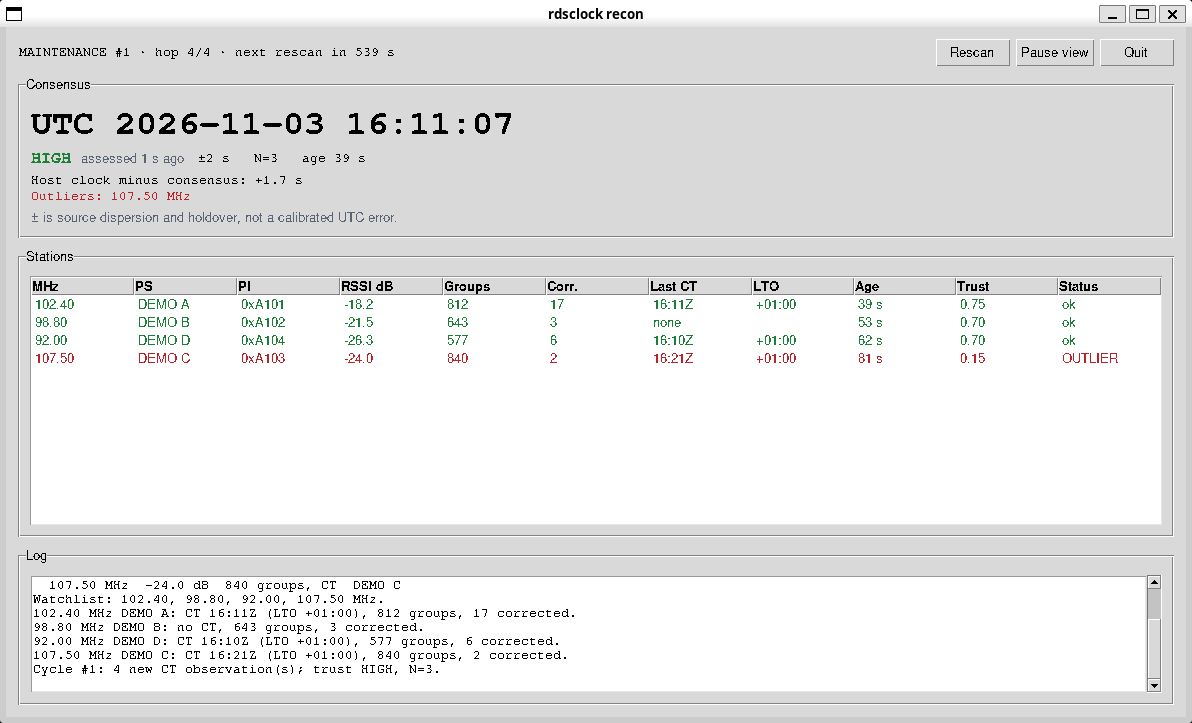
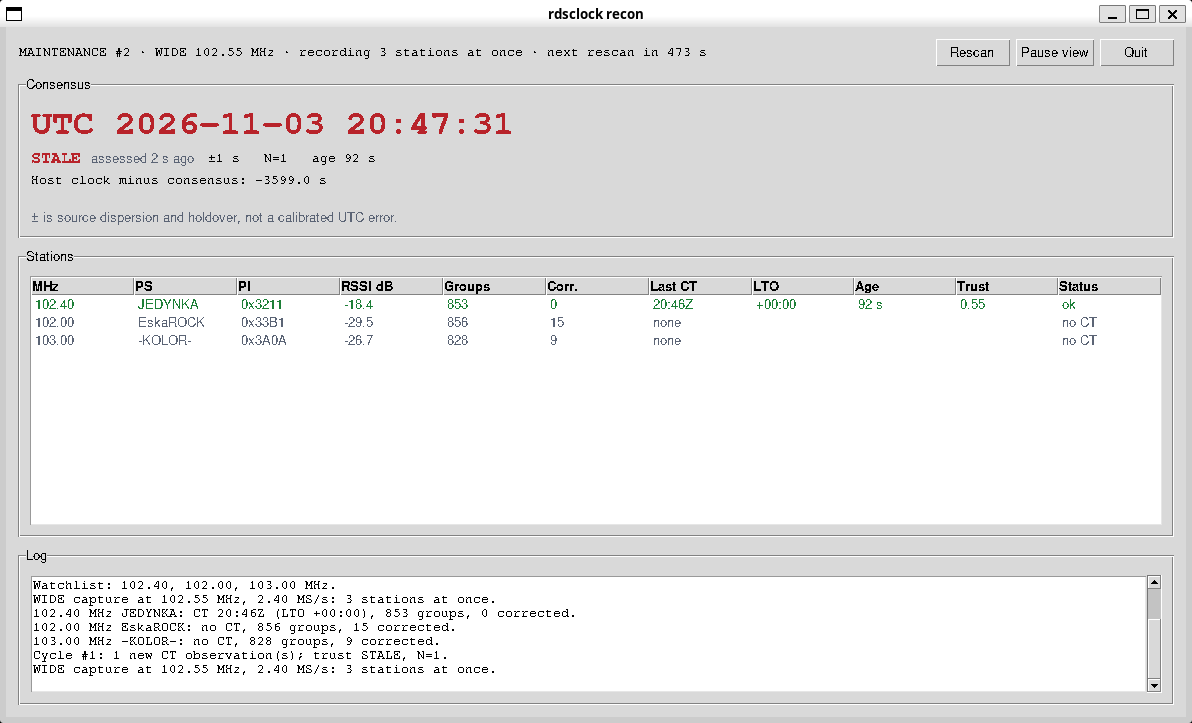
docs: show live WIDE reception in the dashboard screenshots
Replace the made-up DEMO session with screenshots of live reception in
Warsaw on 3 November 2026. recon --wide decoded Eska ROCK, Jedynka and
Radio Kolor from the same 75-second captures at 2.4 MS/s, 828 to 856
groups each. The READMEs give the command and say what the screenshots
show: only Jedynka sends Clock-Time, so the consensus has one source, and
it carries Polish local time in the UTC field, an hour ahead of the host.

diff --git a/README.fr.md b/README.fr.md
@@ -201,19 +201,32 @@ obtient tkinter avec `apt install python3-tk`. Avec `--jsonl`, `recon` écrit
 plutôt un événement JSON par ligne pour d'autres programmes ; le
 [guide opérateur](docs/operator-quickstart.md) décrit tous ces modes.
 
+Avec `--wide`, `recon` enregistre en une seule capture les stations qui tiennent
+dans la bande du récepteur ; les tableaux de bord les montrent alors toutes
+ensemble, sans sauter d'une station à l'autre. Les captures ci-dessous montrent
+une réception réelle à Varsovie le 3 novembre 2026 : Eska ROCK, Jedynka et
+Radio Kolor décodées ensemble à partir de captures de 75 secondes à 2,4 MS/s,
+avec cette commande et `--web` ou `--gui` à la place de `--tui` :
+
+```bash
+.venv/bin/python -m rdsclock recon --host 127.0.0.1 \
+  --wide 102.0,102.4,103.0 --gain 28 --scan-dwell 3 --dwell 75 \
+  --settle-seconds 1 --tui
+```
+
 **Terminal** (`--tui`)
 
-![Tableau de bord en terminal : heure du consensus, niveau de confiance et valeur aberrante au-dessus d'un tableau de quatre stations et d'un journal](docs/images/dashboard-tui.png)
+![Tableau de bord en terminal pendant une réception WIDE réelle : heure du consensus et confiance au-dessus de trois stations issues d'une même capture, et journal](docs/images/dashboard-tui.png)
 
 **Navigateur** (`--web`)
 
-![Tableau de bord web avec le même consensus, le tableau des stations, le journal et les boutons Rescan et Pause view](docs/images/dashboard-web.png)
+![Tableau de bord web pendant une réception WIDE réelle, avec le même consensus, les stations, le journal et les boutons Rescan et Pause view](docs/images/dashboard-web.png)
 
 **Fenêtre de bureau** (`--gui`)
 
-![Fenêtre de bureau avec la même vue et les boutons Rescan, Pause view et Quit](docs/images/dashboard-gui.png)
+![Fenêtre de bureau pendant une réception WIDE réelle, avec la même vue et les boutons Rescan, Pause view et Quit](docs/images/dashboard-gui.png)
 
-*Captures d'une session d'exemple avec des stations DEMO fictives, et non d'une réception réelle.*
+*Réception réelle à Varsovie le 3 novembre 2026. Parmi ces trois stations, seule Jedynka diffuse l'heure (CT) : le consensus repose donc sur une seule source (N=1, confiance LOW ou STALE). Jedynka envoie l'heure locale polonaise dans le champ UTC, d'où l'avance d'une heure du consensus sur l'horloge de l'hôte.*
 
 ## Fonctionnement
 

diff --git a/README.pl.md b/README.pl.md
@@ -190,19 +190,32 @@ lub Ubuntu dostaje tkinter z pakietu `python3-tk`. Z opcją `--jsonl` polecenie
 innych programów; wszystkie tryby opisuje
 [przewodnik operatora](docs/operator-quickstart.md).
 
+Z opcją `--wide` polecenie `recon` nagrywa stacje mieszczące się w paśmie
+odbiornika w jednym przechwyceniu, więc panele pokazują je wszystkie naraz, bez
+przeskakiwania między stacjami. Zrzuty poniżej to odbiór na żywo w Warszawie
+3 listopada 2026: Eska ROCK, Jedynka i Radio Kolor dekodowane razem
+z 75-sekundowych przechwyceń przy 2,4 MS/s. Panele uruchomiono tym poleceniem,
+z `--web` lub `--gui` zamiast `--tui`:
+
+```bash
+.venv/bin/python -m rdsclock recon --host 127.0.0.1 \
+  --wide 102.0,102.4,103.0 --gain 28 --scan-dwell 3 --dwell 75 \
+  --settle-seconds 1 --tui
+```
+
 **Terminal** (`--tui`)
 
-![Panel w terminalu: czas konsensusu, poziom wiarygodności i wartość odstająca nad tabelą czterech stacji i dziennikiem zdarzeń](docs/images/dashboard-tui.png)
+![Panel w terminalu podczas odbioru WIDE na żywo: czas konsensusu i wiarygodność nad trzema stacjami z jednego przechwycenia oraz dziennik zdarzeń](docs/images/dashboard-tui.png)
 
 **Przeglądarka** (`--web`)
 
-![Panel w przeglądarce z tym samym konsensusem, tabelą stacji i dziennikiem oraz przyciskami Rescan i Pause view](docs/images/dashboard-web.png)
+![Panel w przeglądarce podczas odbioru WIDE na żywo, z tym samym konsensusem, stacjami i dziennikiem oraz przyciskami Rescan i Pause view](docs/images/dashboard-web.png)
 
 **Okno aplikacji** (`--gui`)
 
-![Okno aplikacji z tym samym widokiem i przyciskami Rescan, Pause view i Quit](docs/images/dashboard-gui.png)
+![Okno aplikacji podczas odbioru WIDE na żywo, z tym samym widokiem i przyciskami Rescan, Pause view i Quit](docs/images/dashboard-gui.png)
 
-*Zrzuty przykładowej sesji z fikcyjnymi stacjami DEMO, a nie zapis prawdziwego odbioru.*
+*Odbiór na żywo w Warszawie 3 listopada 2026. Z tych trzech stacji czas (CT) nadaje tylko Jedynka, więc konsensus opiera się na jednym źródle (N=1, zaufanie LOW lub STALE). Jedynka podaje w polu UTC polski czas lokalny, dlatego konsensus wyprzedza zegar hosta o godzinę.*
 
 ## Jak to działa
 

diff --git a/README.md b/README.md
@@ -185,19 +185,32 @@ gets tkinter from `apt install python3-tk`. With `--jsonl`, `recon` instead
 writes one JSON event per line for other programs; the
 [operator guide](docs/operator-quickstart.md) describes all these modes.
 
+With `--wide`, `recon` records stations that fit in the receiver bandwidth
+from one capture, so the dashboards show them all at once instead of hopping
+from one to the next. The screenshots below show live reception in Warsaw on
+3 November 2026: Eska ROCK, Jedynka and Radio Kolor decoded together from
+75-second captures at 2.4 MS/s, with this command and `--web` or `--gui` in
+place of `--tui`:
+
+```bash
+.venv/bin/python -m rdsclock recon --host 127.0.0.1 \
+  --wide 102.0,102.4,103.0 --gain 28 --scan-dwell 3 --dwell 75 \
+  --settle-seconds 1 --tui
+```
+
 **Terminal** (`--tui`)
 
-![Terminal dashboard: consensus time, trust level and an outlier above a table of four stations and a log](docs/images/dashboard-tui.png)
+![Terminal dashboard during live WIDE reception: consensus time and trust above three stations decoded from one capture, and a log](docs/images/dashboard-tui.png)
 
 **Browser** (`--web`)
 
-![Browser dashboard with the same consensus, station table and log, and Rescan and Pause view buttons](docs/images/dashboard-web.png)
+![Browser dashboard during live WIDE reception, with the same consensus, stations and log, and Rescan and Pause view buttons](docs/images/dashboard-web.png)
 
 **Desktop window** (`--gui`)
 
-![Desktop window with the same view and Rescan, Pause view and Quit buttons](docs/images/dashboard-gui.png)
+![Desktop window during live WIDE reception, with the same view and Rescan, Pause view and Quit buttons](docs/images/dashboard-gui.png)
 
-*Screenshots of an example session with made-up DEMO stations, not of a live reception.*
+*Live reception in Warsaw on 3 November 2026. Of these three stations only Jedynka broadcasts Clock-Time, so the consensus rests on one source (N=1, trust LOW or STALE). Jedynka sends Polish local time in the UTC field, which is why the consensus runs an hour ahead of the host clock.*
 
 ## How it works
 

diff --git a/CHANGELOG.md b/CHANGELOG.md
@@ -62,6 +62,8 @@ and this project adheres to [Semantic Versioning](https://semver.org/spec/v2.0.0
 
 ### Documentation
 
+- The READMEs show how to run each dashboard, with screenshots of live WIDE
+  reception in Warsaw: three stations decoded from one capture.
 - Add an original radio-clock SVG banner shared by the English, Polish and
   French READMEs, with localized alternative text.
 - Refresh the English and Polish READMEs and add a complete French translation,
